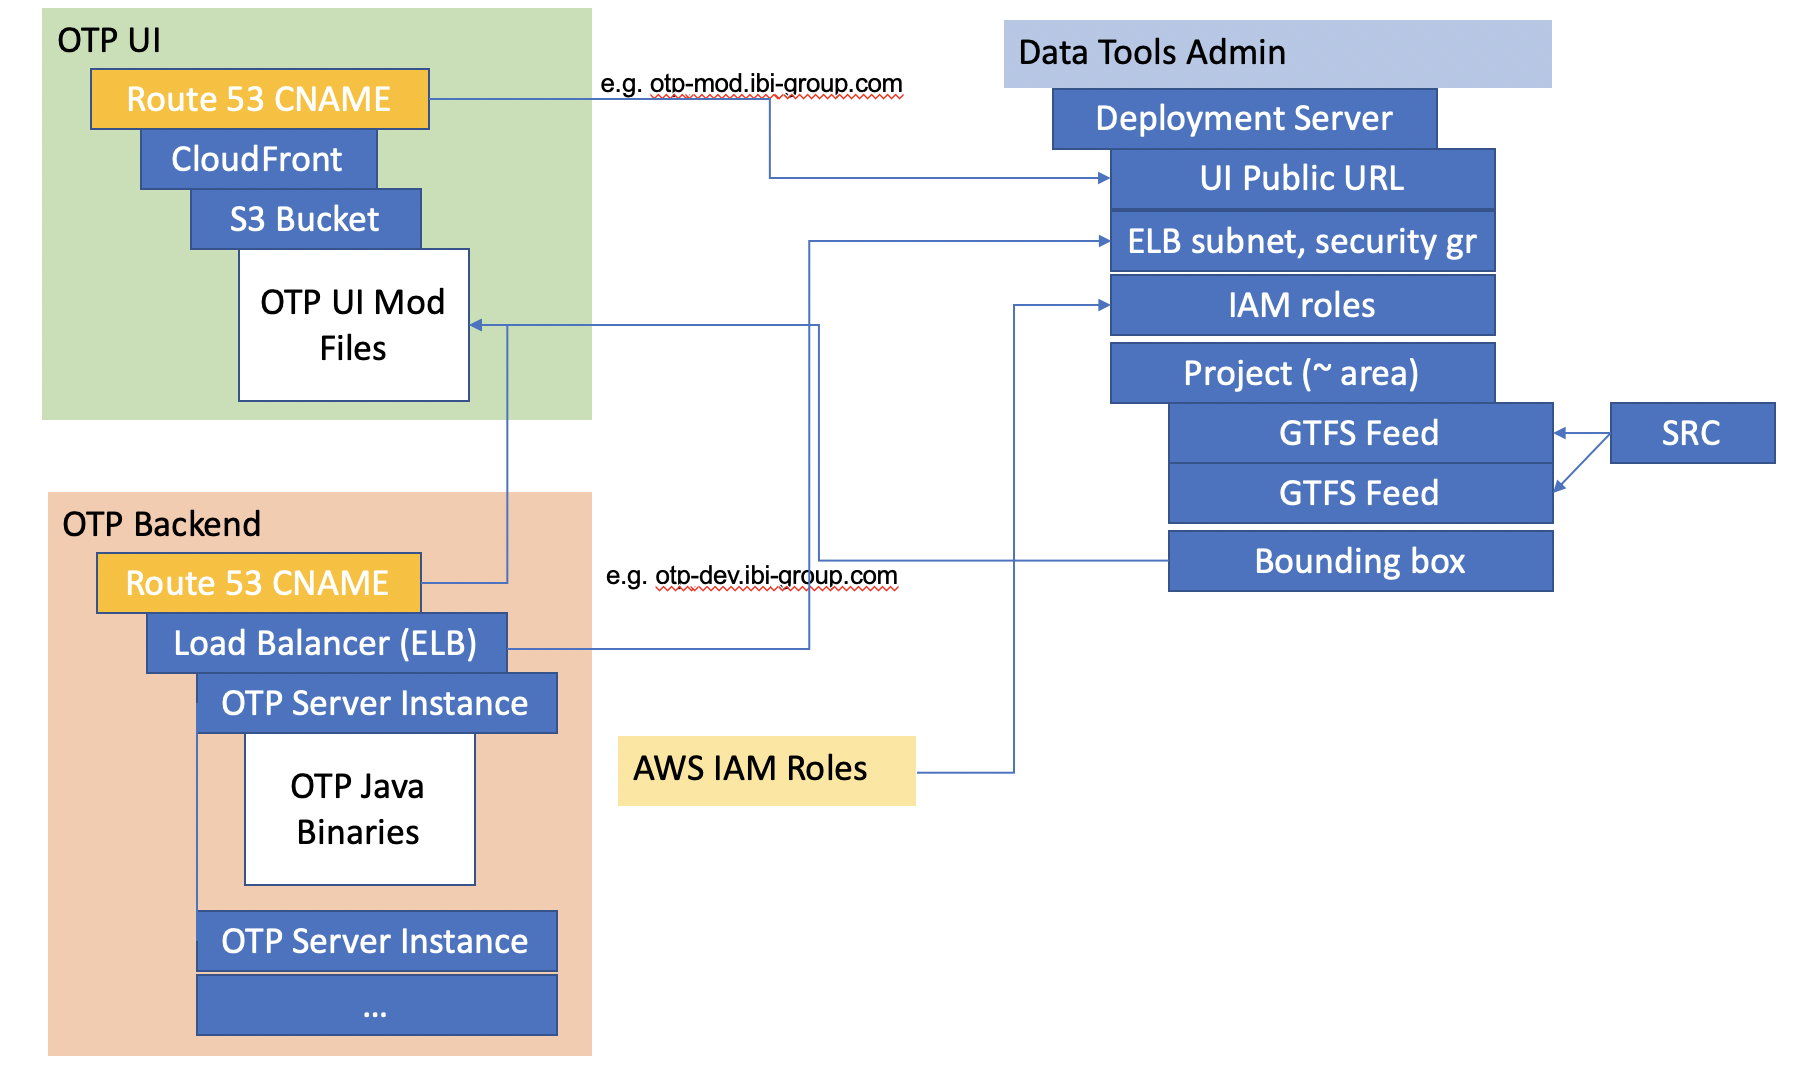
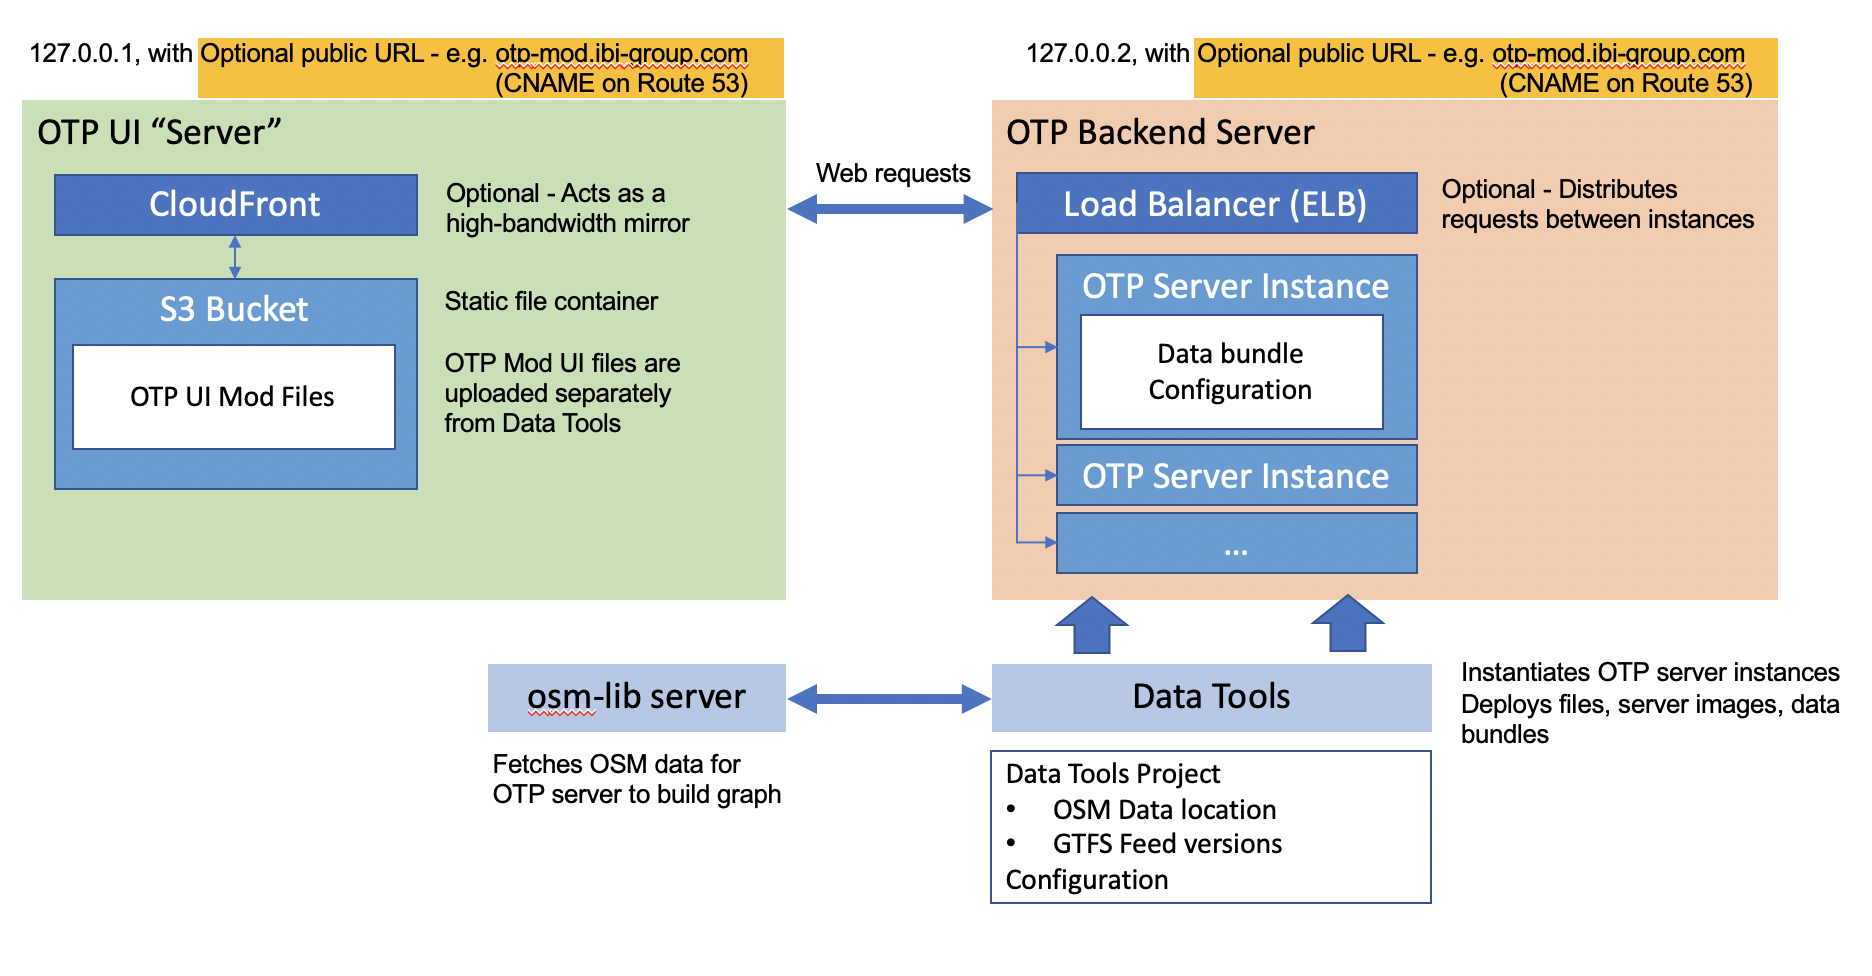
docs: Update diagram. Add deployment overview. Add assumption for and reference to osm-lib.

diff --git a/docs/user/otp-deployment.md b/docs/user/otp-deployment.md
@@ -1,5 +1,17 @@
 # OTP Deployment Guide
 
+In this guide:
+
+1. [Overview](#overview)
+2. [OTP Deployment Archtecture](#otp-deployment-architecture)
+3. [Performing an OTP Deployment](#performing-an-otp-deployment)
+
+## Overview
+
+This guide describes how to configure and deploy OTP servers using OTP Data Tools, and is for intermediate to advanced OTP Data Tools administrators. The deployment architecture diagram below depicts how OTP servers are managed by Data Tools and can be used with elastic load balancers, and how Amazon S3 servers are mirrored by CloudFront high-bandwidth content delivery.
+
+The steps to perform an OTP deployment describe how to set up and link OTP servers to load balancers, S3 servers to CloudFront, and Amazon Web Services to Data Tools. Administrators can also find how to configure optional subdomains (i.e. friendly, public URLs) for OTP servers.
+
 ## OTP Deployment Architecture
 
 The figure below depicts the OTP deployment architecture.

diff --git a/docs/user/deploying-feeds.md b/docs/user/deploying-feeds.md
@@ -2,8 +2,9 @@
 
 Assumptions:
 
-* [X] You have loaded a GTFS feed into a project.
-* [X] You have a deployment server available.
+* [X] You have [loaded a GTFS feed into a project](./managing-projects-feeds.md).
+* [X] You have a deployment server available [(example: AWS)](./add-deployment-server.md).
+* [X] [An osm-lib server has been set up](https://github.com/conveyal/osm-lib) for Data Tools to fetch Open Streets Map (OSM) data.
 
 ## Executing a deployment
 
